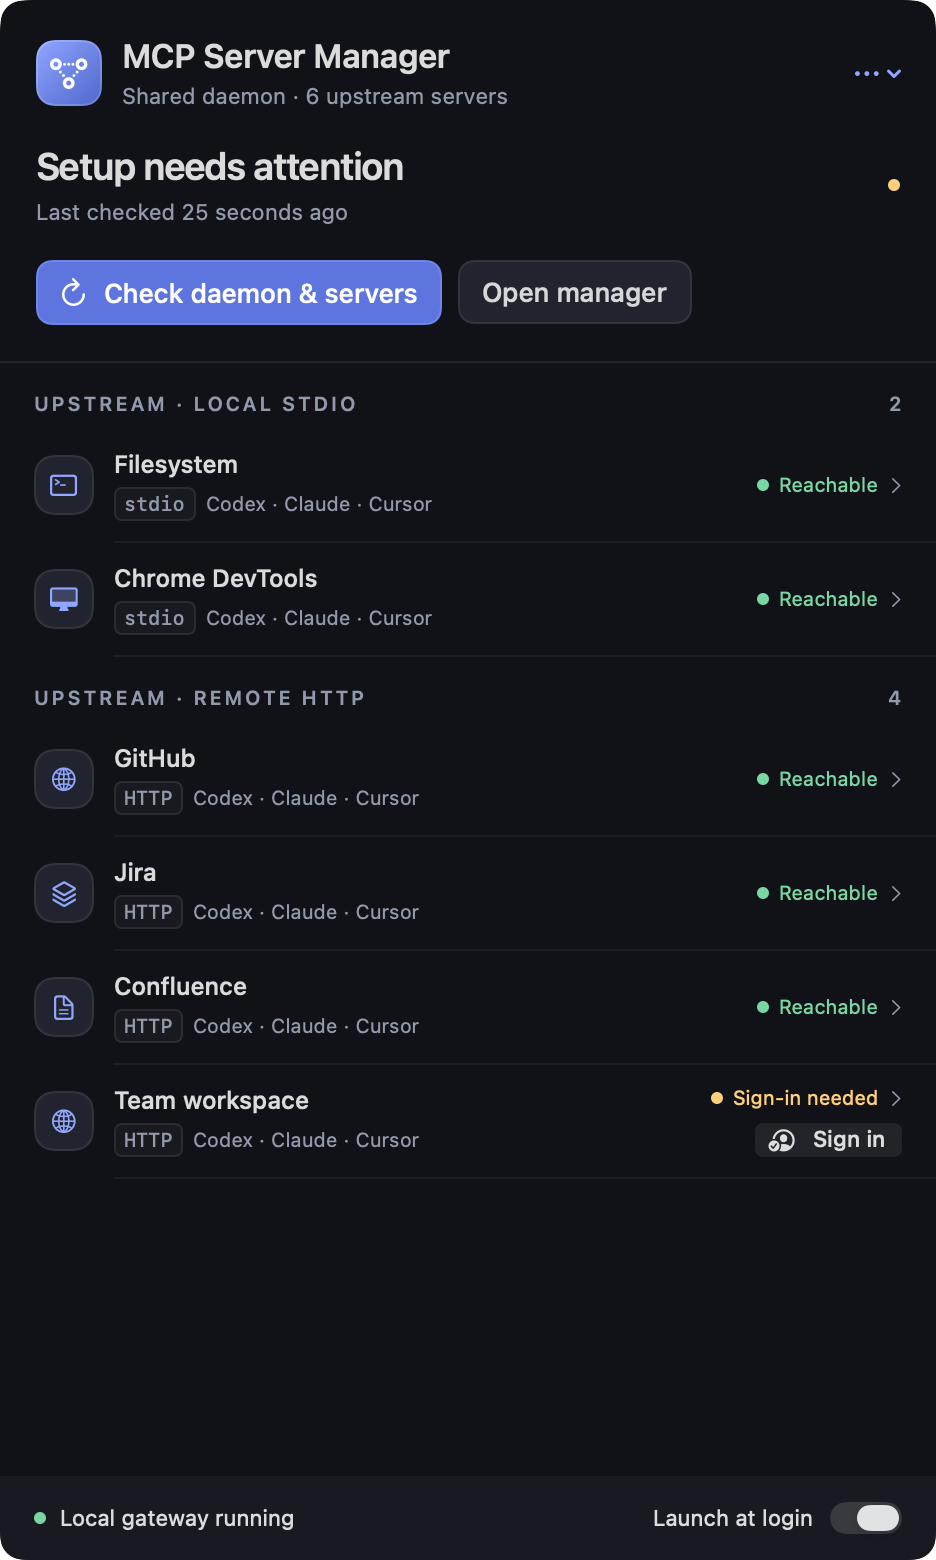
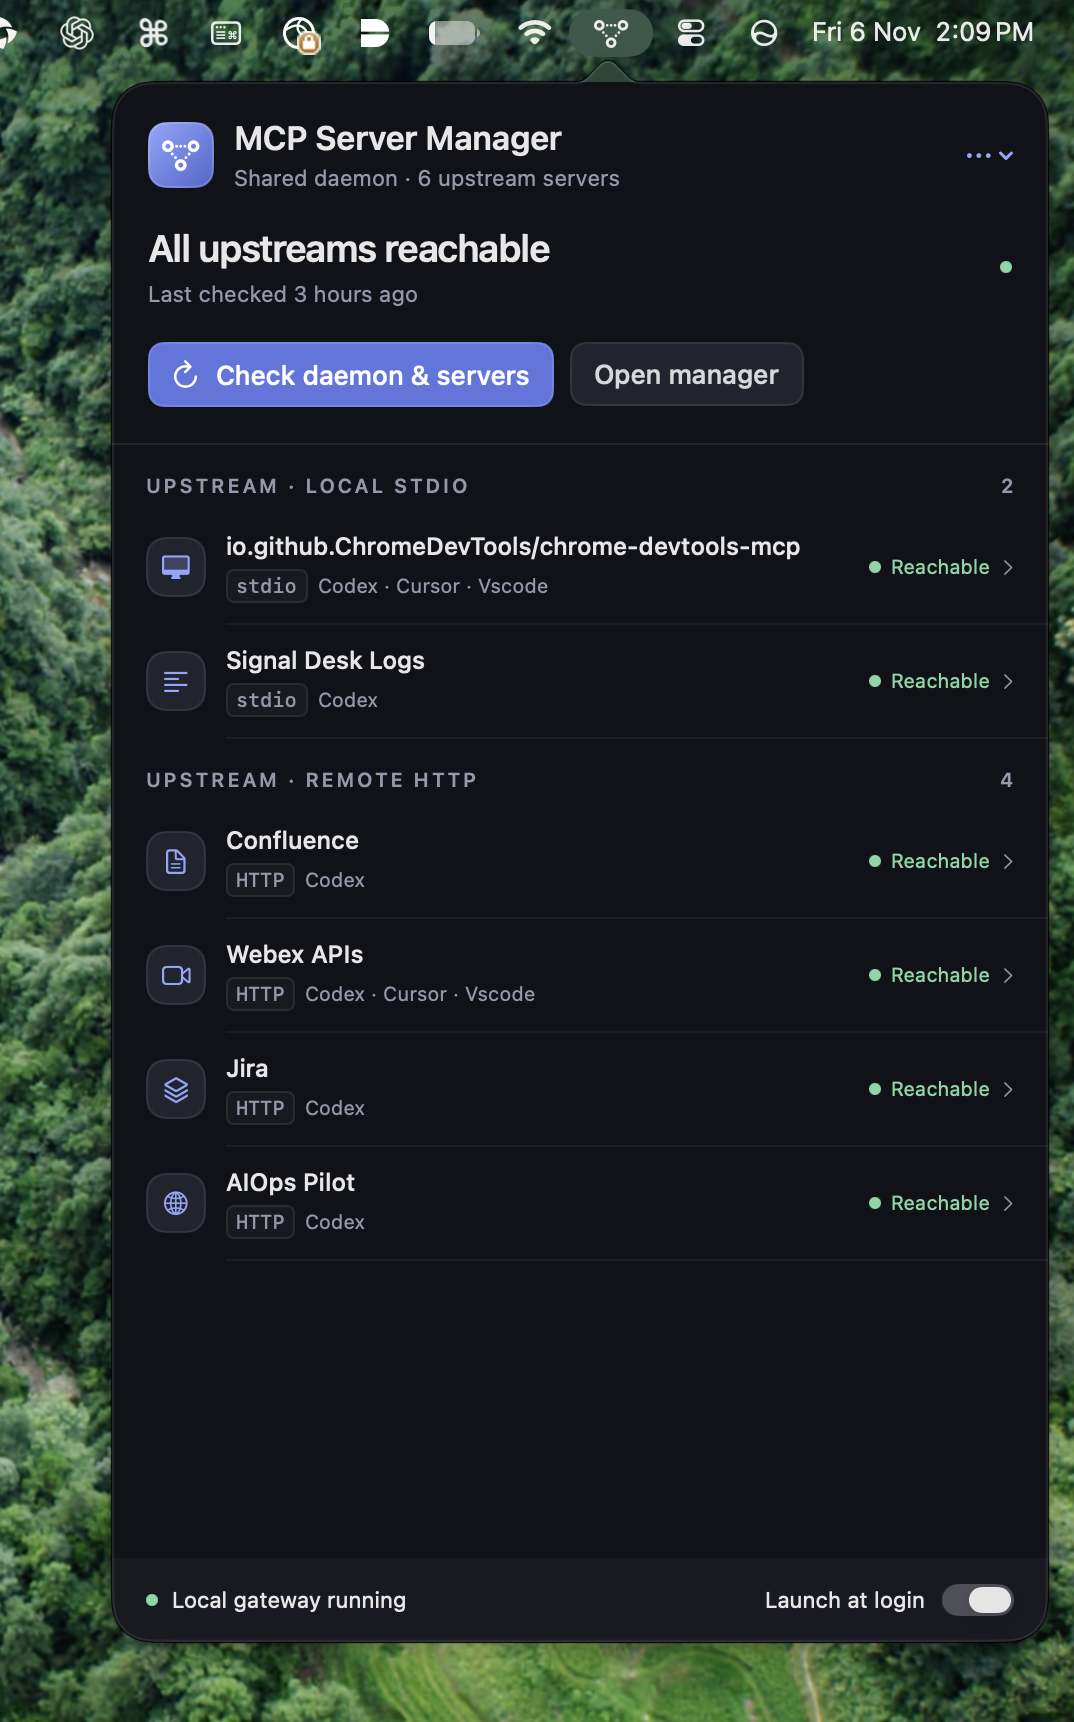
Use readable persistent MCP tool names

diff --git a/scripts/capture-screenshots.swift b/scripts/capture-screenshots.swift
@@ -10,9 +10,7 @@ import SwiftUI
         try FileManager.default.createDirectory(at: output, withIntermediateDirectories: true)
         let model = try exampleModel()
         try capture(ManagerView(model: model), size: NSSize(width: 1180, height: 900), to: output.appendingPathComponent("manager.png"))
-        try capture(MenuPopoverView(model: model, openManager: {}, quit: {})
-            .clipShape(RoundedRectangle(cornerRadius: 12)),
-            size: MenuBarPresentation.preferredSize, to: output.appendingPathComponent("menu.png"))
+        // The README menu image is a user-supplied capture; leave it intact.
         print("Saved example-data screenshots to \(output.path)")
     }
 

diff --git a/backend/gateway.py b/backend/gateway.py
@@ -23,20 +23,12 @@ from oauth import OAuthManager
 from common_config import CommonConfig
 from credentials import FileCredentials
 from server_config import all_refs, raw_config
+from tool_names import ToolNames
 
 
 def socket_path(state):
     identity = hashlib.sha256(str(Path(state).resolve()).encode()).hexdigest()[:12]
     return Path('/tmp') / f'mcp-manager-{os.getuid()}-{identity}' / 'gateway.sock'
-
-
-def tool_name(server, original):
-    slug = re.sub(r'[^A-Za-z0-9_-]', '_', server['name'])[:18]
-    prefix = slug + '_' + server['id'][:8] + '__'
-    safe = re.sub(r'[^A-Za-z0-9_-]', '_', original)
-    if safe != original or len(prefix + safe) > 64:
-        safe = safe[:max(1, 64 - len(prefix) - 9)] + '_' + hashlib.sha256(original.encode()).hexdigest()[:8]
-    return prefix + safe
 
 
 class Gateway:
@@ -49,6 +41,7 @@ class Gateway:
         self.closing = threading.Event()
         self.started = time.time()
         self.last_checked = None
+        self.names = ToolNames(store)
         self.credentials = FileCredentials(store)
         self.common = CommonConfig(store, self.credentials.write, self.credentials.delete)
         self.common_error = None
@@ -192,11 +185,12 @@ class Gateway:
                         if not self._permitted(server, client): continue
                         try:
                             entry = self._session(server)
+                            aliases = self.names.register(server, [tool['name'] for tool in entry['tools']])
                             for tool in entry['tools']:
                                 if self._permitted(server, client, tool['name']):
                                     tool = copy.deepcopy(tool)
                                     tool['description'] = '[' + server['name'] + '] ' + tool.get('description', '')
-                                    tool['name'] = tool_name(server, tool['name'])
+                                    tool['name'] = aliases[tool['name']]
                                     tools.append(tool)
                         except ManagerError:
                             self.check(server['id'])
@@ -206,26 +200,23 @@ class Gateway:
                 name = params.get('name')
                 arguments = params.get('arguments', {})
                 if not isinstance(name, str) or not isinstance(arguments, dict): raise ManagerError('Invalid tool call.')
-                result = None
-                for server in list(self.store.data['servers']):
-                    if not self._permitted(server, client): continue
-                    # Prefix limits session creation to the matching upstream.
-                    if not name.startswith(tool_name(server, '').rsplit('__', 1)[0] + '__'): continue
-                    with self._server_lock(server['id']):
-                        try: server = self.store.server(server['id'])
-                        except ManagerError: continue
-                        if not self._permitted(server, client): continue
-                        entry = self._session(server)
-                        original = next((t['name'] for t in entry['tools'] if tool_name(server, t['name']) == name), None)
-                        if original is None or not self._permitted(self.store.server(server['id']), client, original): raise ManagerError('Tool is unavailable or access was revoked.')
-                        entry['session'].timeout = 60
-                        try: result = entry['session'].request('tools/call', {'name': original, 'arguments': arguments})
-                        except Exception:
-                            self.restart(server['id'])
-                            raise
-                        finally: entry['session'].timeout = 10 if server['transport'] == 'HTTP' else 8
-                        break
-                if result is None: raise ManagerError('Tool is unavailable or this client is not allowed to use it.')
+                route = self.names.resolve(name)
+                if route is None: raise ManagerError('Tool is unavailable or this client is not allowed to use it.')
+                sid, original = route
+                with self._server_lock(sid):
+                    try: server = self.store.server(sid)
+                    except ManagerError: raise ManagerError('Tool is unavailable.') from None
+                    if not self._permitted(server, client, original): raise ManagerError('Tool is unavailable or access was revoked.')
+                    entry = self._session(server)
+                    if not any(tool['name'] == original for tool in entry['tools']): raise ManagerError('Tool is unavailable.')
+                    if not self._permitted(self.store.server(sid), client, original): raise ManagerError('Tool is unavailable or access was revoked.')
+                    entry['session'].timeout = 60
+                    try: result = entry['session'].request('tools/call', {'name': original, 'arguments': arguments})
+                    except Exception:
+                        self.restart(sid)
+                        raise
+                    finally: entry['session'].timeout = 10 if server['transport'] == 'HTTP' else 8
+
             else:
                 response['error'] = {'code': -32601, 'message': 'Method not supported by this tools-only gateway.'}
                 return response

diff --git a/backend/tool_names.py b/backend/tool_names.py
@@ -1,0 +1,93 @@
+"""Readable, persistent tool aliases; upstream identities stay internal."""
+from __future__ import annotations
+import copy
+import re
+from catalog import ManagerError
+
+MAX_NAME = 64
+MAX_SERVER_ALIAS = 24
+VALID = re.compile(r'^[A-Za-z0-9_-]+$')
+
+
+def server_slug(name):
+    # Reverse-DNS package names often finish with a useful path component.
+    slug = re.sub(r'[^a-z0-9]+', '_', name.rsplit('/', 1)[-1].lower()).strip('_')
+    slug = re.sub(r'^mcp_|_mcp$', '', slug)
+    return slug or 'server'
+
+
+def unique(base, limit, occupied):
+    base = base[:limit].rstrip('_-') or 'tool'
+    candidate = base
+    number = 2
+    while candidate in occupied:
+        suffix = '_' + str(number)
+        candidate = base[:limit-len(suffix)].rstrip('_-') + suffix
+        number += 1
+    return candidate
+
+
+class ToolNames:
+    def __init__(self, store):
+        self.store = store
+
+    def _state(self):
+        state = self.store.data.get('tool_names', {'servers': {}, 'tools': {}})
+        if not isinstance(state, dict) or not isinstance(state.get('servers'), dict) or not isinstance(state.get('tools'), dict):
+            raise ManagerError('Stored tool aliases are invalid.')
+        aliases = list(state['servers'].values())
+        if any(not isinstance(v, str) or not VALID.fullmatch(v) or len(v) > MAX_SERVER_ALIAS for v in aliases) or len(aliases) != len(set(aliases)):
+            raise ManagerError('Stored server aliases are invalid.')
+        for sid, tools in state['tools'].items():
+            if sid not in state['servers'] or not isinstance(tools, dict): raise ManagerError('Stored tool aliases are invalid.')
+            values = list(tools.values())
+            budget = MAX_NAME - len(state['servers'][sid]) - 2
+            if any(not isinstance(k,str) or not k for k in tools) or any(not isinstance(v,str) or not VALID.fullmatch(v) or len(v)>budget for v in values) or len(values)!=len(set(values)):
+                raise ManagerError('Stored tool aliases are invalid.')
+        return state
+
+    def register(self, server, originals):
+        """Reserve all upstream names before applying a client's tool filters."""
+        if any(not isinstance(name, str) or not name for name in originals): raise ManagerError('Upstream advertised an invalid tool name.')
+        with self.store.lock:
+            current = self._state()
+            staged = copy.deepcopy(current)
+            if not any(s['id'] == server['id'] for s in self.store.data['servers']): raise ManagerError('Unknown server.')
+            occupied = set(staged['servers'].values())
+            # Allocate every known namespace independently of permission/list order.
+            for record in sorted(self.store.data['servers'], key=lambda s: (server_slug(s['name']), s['id'])):
+                sid = record['id']
+                if sid not in staged['servers']:
+                    alias = unique(server_slug(record['name']), MAX_SERVER_ALIAS, occupied)
+                    staged['servers'][sid] = alias
+                    occupied.add(alias)
+            sid = server['id']
+            alias = staged['servers'][sid]
+            tools = staged['tools'].setdefault(sid, {})
+            occupied = set(tools.values())
+            for original in sorted(set(originals)):
+                if original not in tools:
+                    base = re.sub(r'[^A-Za-z0-9_-]+', '_', original).strip('_') or 'tool'
+                    tool_alias = unique(base, MAX_NAME-len(alias)-2, occupied)
+                    tools[original] = tool_alias
+                    occupied.add(tool_alias)
+            if staged != current or 'tool_names' not in self.store.data:
+                previous = self.store.data.get('tool_names')
+                self.store.data['tool_names'] = staged
+                try: self.store.save()
+                except Exception:
+                    if previous is None: self.store.data.pop('tool_names', None)
+                    else: self.store.data['tool_names'] = previous
+                    raise
+            return {original: alias + '__' + tools[original] for original in originals}
+
+    def resolve(self, exposed):
+        with self.store.lock:
+            state = self._state()
+            for sid, alias in state['servers'].items():
+                prefix = alias + '__'
+                if not exposed.startswith(prefix): continue
+                suffix = exposed[len(prefix):]
+                for original, tool_alias in state['tools'].get(sid, {}).items():
+                    if suffix == tool_alias: return sid, original
+        return None

diff --git a/tests/test_tool_names.py b/tests/test_tool_names.py
@@ -1,0 +1,62 @@
+import json
+from pathlib import Path
+import re
+import sys
+import tempfile
+import unittest
+from unittest.mock import patch
+sys.path.insert(0,str(Path(__file__).resolve().parents[1]/'backend'))
+from catalog import Store,ManagerError
+from tool_names import ToolNames
+
+class ToolNameTests(unittest.TestCase):
+    def setUp(self):
+        self.tmp=tempfile.TemporaryDirectory();self.root=Path(self.tmp.name)
+        self.store=Store(self.root/'state',self.root)
+        self.jira={'id':'internal-1','name':'jira'}
+        self.store.data['servers']=[self.jira]
+        self.names=ToolNames(self.store)
+    def tearDown(self):self.tmp.cleanup()
+    def test_readable_name_maps_back_to_internal_identity(self):
+        names=self.names.register(self.jira,['search_issues'])
+        self.assertEqual(names,{'search_issues':'jira__search_issues'})
+        self.assertEqual(self.names.resolve('jira__search_issues'),('internal-1','search_issues'))
+    def test_friendly_server_normalization(self):
+        logs={'id':'logs-id','name':'signal-desk-logs'}
+        chrome={'id':'chrome-id','name':'io.github.ChromeDevTools/chrome-devtools-mcp'}
+        self.store.data['servers'] += [logs,chrome]
+        self.assertEqual(self.names.register(logs,['search_logs'])['search_logs'],'signal_desk_logs__search_logs')
+        self.assertEqual(self.names.register(chrome,['list_pages'])['list_pages'],'chrome_devtools__list_pages')
+    def test_server_collisions_have_stable_numeric_suffixes(self):
+        twin={'id':'internal-2','name':'JIRA'};self.store.data['servers'].append(twin)
+        self.assertEqual(self.names.register(self.jira,['search'])['search'],'jira__search')
+        self.assertEqual(self.names.register(twin,['search'])['search'],'jira_2__search')
+        self.store.data['servers'].reverse();self.store.save()
+        restarted=ToolNames(Store(self.store.root,self.root))
+        self.assertEqual(restarted.register(twin,['search'])['search'],'jira_2__search')
+    def test_tool_sanitization_and_truncation_suffix_only_on_collision(self):
+        long='very_long_tool_name_'*6
+        mapping=self.names.register(self.jira,['get.issue','get_issue',long+'a',long+'b'])
+        self.assertEqual(mapping['get.issue'],'jira__get_issue')
+        self.assertEqual(mapping['get_issue'],'jira__get_issue_2')
+        self.assertTrue(mapping[long+'b'].endswith('_2'))
+        self.assertEqual(len(set(mapping.values())),4)
+        for name in mapping.values():
+            self.assertLessEqual(len(name),64);self.assertRegex(name,r'^[A-Za-z0-9_-]+$')
+    def test_existing_names_survive_rename_and_new_colliding_tool(self):
+        self.names.register(self.jira,['get_issue'])
+        self.jira['name']='Renamed Jira'
+        mapping=self.names.register(self.jira,['get.issue','get_issue'])
+        self.assertEqual(mapping['get_issue'],'jira__get_issue')
+        self.assertEqual(mapping['get.issue'],'jira__get_issue_2')
+    def test_deleted_server_names_are_not_reassigned(self):
+        self.names.register(self.jira,['search'])
+        replacement={'id':'new-server','name':'jira'};self.store.data['servers']=[replacement]
+        self.assertEqual(self.names.register(replacement,['search'])['search'],'jira_2__search')
+        self.assertEqual(self.names.resolve('jira__search'),('internal-1','search'))
+    def test_persist_failure_does_not_publish_new_names(self):
+        before=json.loads(json.dumps(self.store.data))
+        with patch.object(self.store,'save',side_effect=ManagerError('Failed persistence')):
+            with self.assertRaises(ManagerError):self.names.register(self.jira,['search'])
+        self.assertEqual(self.store.data,before)
+        self.assertIsNone(self.names.resolve('jira__search'))

diff --git a/tests/test_gateway.py b/tests/test_gateway.py
@@ -1,4 +1,5 @@
 import json
+import copy
 import os
 from pathlib import Path
 import subprocess
@@ -55,7 +56,7 @@ class GatewayTests(unittest.TestCase):
         tools = result['result']['tools']
         self.assertEqual(len(tools), 1)
         name = tools[0]['name']
-        self.assertTrue(name.endswith('__echo'))
+        self.assertEqual(name,'fixture__echo')
         call = self.gateway.handle('cursor', {'id': 2, 'method': 'tools/call', 'params': {'name': name, 'arguments': {'text': 'hello'}}})
         self.assertEqual(call['result']['content'][0]['text'], 'hello')
         denied = self.gateway.handle('codex', {'id': 3, 'method': 'tools/call', 'params': {'name': name, 'arguments': {}}})
@@ -63,6 +64,28 @@ class GatewayTests(unittest.TestCase):
         self.store.update(self.server['id'], {'clients': []})
         revoked = self.gateway.handle('cursor', {'id': 4, 'method': 'tools/call', 'params': {'name': name, 'arguments': {}}})
         self.assertIn('error', revoked)
+    def test_colliding_readable_names_route_to_the_right_upstream_after_restart(self):
+        other=copy.deepcopy(self.server)
+        other.update(id='zz-other',name='Fixture',source_client='manager',source_name='Fixture',
+                     definition={'command':'/usr/bin/env','args':[sys.executable,FIXTURE],'env':{'METHOD_MARKER':str(self.root/'other-requests')}})
+        other.pop('common_key',None)
+        self.store.data['servers'].append(other);self.store.save()
+        listed=self.gateway.handle('cursor',{'id':1,'method':'tools/list'})
+        names=[tool['name'] for tool in listed['result']['tools']]
+        self.assertIn('fixture__echo',names);self.assertIn('fixture_2__echo',names)
+        before=self.marker.read_text()
+        call=self.gateway.handle('cursor',{'id':2,'method':'tools/call','params':{'name':'fixture_2__echo','arguments':{'text':'correct server'}}})
+        self.assertEqual(call['result']['content'][0]['text'],'correct server')
+        self.assertEqual(self.marker.read_text(),before)
+        self.assertEqual((self.root/'other-requests').read_text().splitlines()[-1],'tools/call')
+        self.gateway.close()
+        self.store=Store(self.store.root,self.home);self.gateway=Gateway(self.store)
+        again=self.gateway.handle('cursor',{'id':3,'method':'tools/list'})
+        self.assertEqual([tool['name'] for tool in again['result']['tools']],names)
+        self.store.update(other['id'],{'clients':[]})
+        denied=self.gateway.handle('cursor',{'id':4,'method':'tools/call','params':{'name':'fixture_2__echo','arguments':{}}})
+        self.assertIn('error',denied)
+
     def test_disabling_direct_entry_keeps_imported_gateway_available(self):
         path = self.home / '.cursor/mcp.json'
         doc = json.loads(path.read_text())

diff --git a/README.md b/README.md
@@ -5,6 +5,7 @@ A central place to manage MCP servers on macOS. Configure your servers once and 
 - Manage local stdio and remote HTTP servers.
 - Edit server configuration, sign in, and check connection status.
 - Choose which clients can access each server and its tools.
+- Use readable names such as `jira__search_issues`; stable numeric suffixes resolve naming collisions.
 - Keep connections handy from the menu bar, with optional startup at login.
 
 ## Screenshots
@@ -17,7 +18,7 @@ A central place to manage MCP servers on macOS. Configure your servers once and 
 
 <img src="docs/screenshots/menu.png" alt="MCP Server Manager menu" width="468">
 
-Screenshots use example server data.
+The manager screenshot uses example server data.
 
 ## Build and run
 
@@ -40,4 +41,4 @@ python3 -m unittest discover -s tests -v
 python3 scripts/smoke.py
 ```
 
-Regenerate the example screenshots with `./scripts/capture-screenshots.sh`.
+Regenerate the example manager screenshot with `./scripts/capture-screenshots.sh`.
